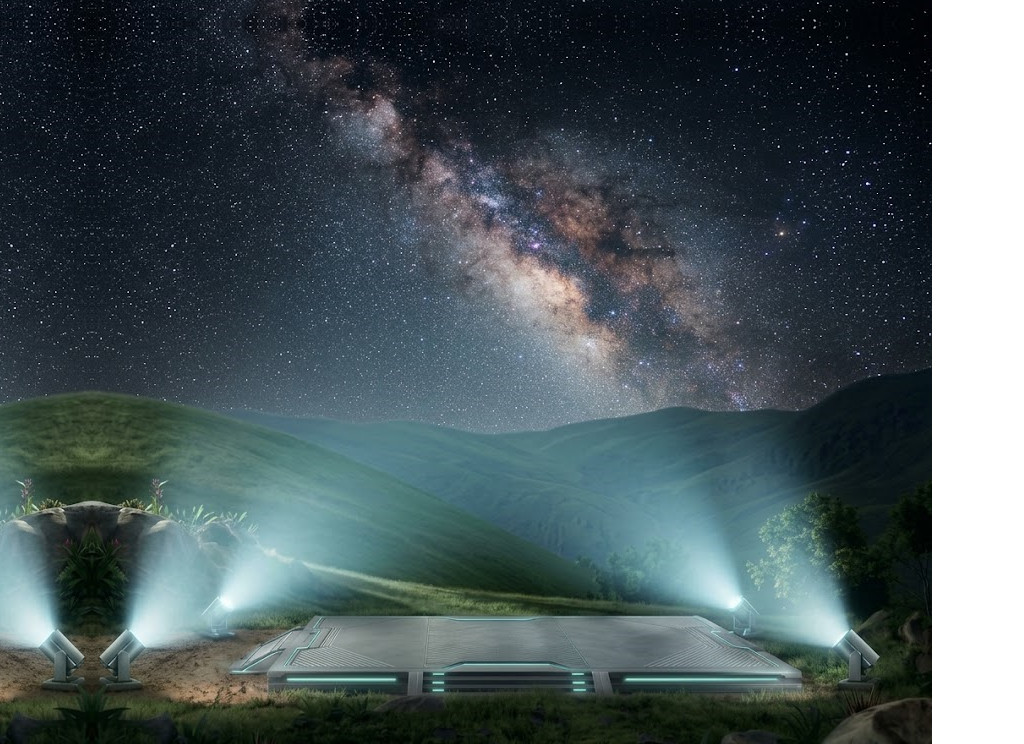
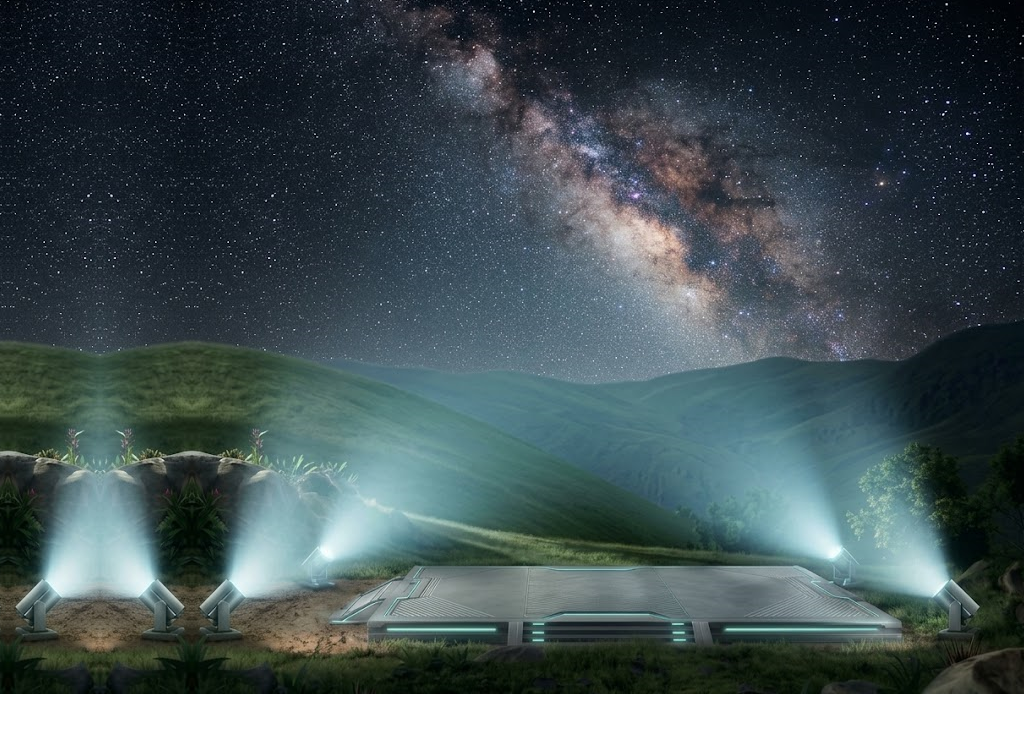
Fonds vallee jour et nuit decales de 50px vers le haut et 100px vers la droite (bords comblees par miroir) ; tuile Vitesse : libelle et valeur exactement a la meme taille de police (1.05rem/800) et gap elargi a 14px ; SW v78

diff --git a/style.css b/style.css
@@ -3059,13 +3059,15 @@ body {
     text-overflow: clip;
     max-width: none;
     flex-shrink: 0;
-    /* Meme style visuel que la valeur : sur une seule ligne, le contraste
-       majuscules/0.64rem vs valeur 1.05rem cassait l'impression d'un texte
-       continu. La valeur reste legerement plus lourde (800 vs 700). */
-    font-size: 0.95rem;
+    /* Meme style exact que la valeur : meme taille, meme graisse,
+       meme couleur -- deux fragments d'un seul texte sur la ligne. */
+    font-size: 1.05rem;
+    font-weight: 800;
     color: #dbeafe;
     text-transform: none;
     letter-spacing: 0;
+    text-shadow: 0 1px 2px rgba(0, 0, 0, 0.6);
+    font-variant-numeric: tabular-nums;
 }
 .stat-tile.stat-tile-speed .stat-value {
     flex-shrink: 1;
@@ -3076,7 +3078,9 @@ body {
     flex-direction: row;
     justify-content: center;
     align-items: baseline;
-    gap: 6px;
+    /* Espace net entre le libelle et la valeur : la tuile prend toute la
+       largeur, on peut se permettre une vraie separation visuelle. */
+    gap: 14px;
 }
 /* Hierarchie : Portee actuelle et Distance a parcourir (stats de l'expedition
    en cours) legerement mises en avant par rapport aux stats secondaires --

diff --git a/sw.js b/sw.js
@@ -1,7 +1,7 @@
 // Service worker Starcruiser Clicker : cache-first sur les ressources
 // statiques pour un chargement quasi instantane en relecture, et un
 // fallback hors-ligne. Les mises a jour passent par un bump de version.
-const CACHE_NAME = 'starcruiser-clicker-v77';
+const CACHE_NAME = 'starcruiser-clicker-v78';
 const ASSETS = [
     './',
     './index.html',
